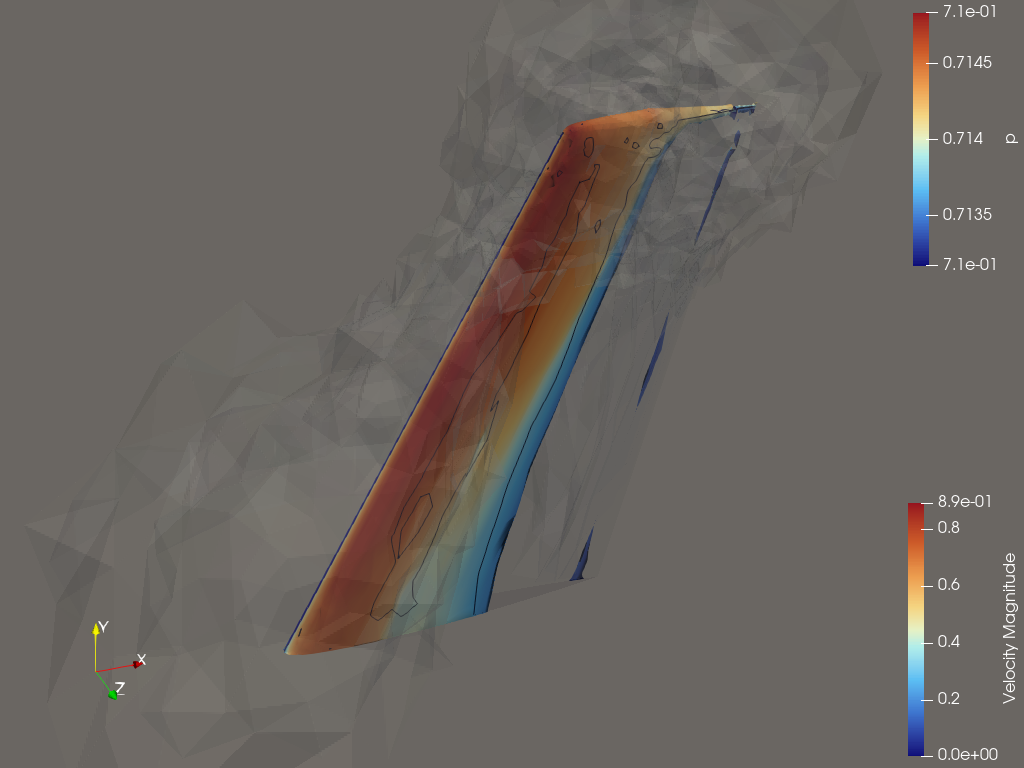
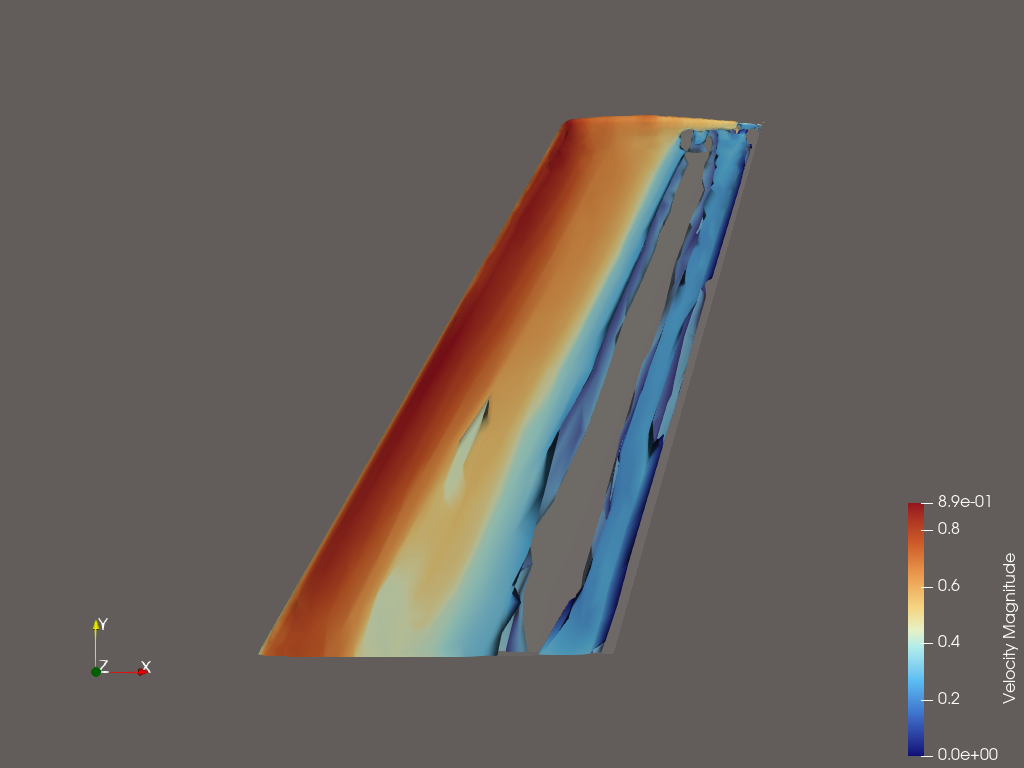
Update documentation images from test output
- Capture chart views (histogram, force distribution) in test screenshots
- Replace old manually-captured images with test-generated ones
- Add pressure_histogram.png, remove lift_distribution.png
- Update README to reference new histogram image

Images now automatically regenerated when tests run.

diff --git a/examples/cfd_assistant/test_all_workflows.py b/examples/cfd_assistant/test_all_workflows.py
@@ -143,11 +143,16 @@ for i, (name, query) in enumerate(tests, 1):
         "error": result['result'].get('error') if not success else None
     })
     
-    # Screenshot
-    simple.SetActiveView(view)
-    simple.Render(view)
+    # Screenshot - use chart view if workflow created one, otherwise 3D view
+    screenshot_view = view
+    if hasattr(extended_mcp, '_last_chart_view') and extended_mcp._last_chart_view is not None:
+        # Chart workflow - capture the chart view
+        screenshot_view = extended_mcp._last_chart_view
+        extended_mcp._last_chart_view = None  # Reset for next iteration
+    
+    simple.Render(screenshot_view)
     filename = f"output/workflow_test_{i:02d}_{name.replace(' ', '_').lower()}.png"
-    simple.SaveScreenshot(filename, view, ImageResolution=[1024, 768])
+    simple.SaveScreenshot(filename, screenshot_view, ImageResolution=[1024, 768])
     print_log("")
 
 # Summary

diff --git a/src/paraview_llm/extended_mcp.py b/src/paraview_llm/extended_mcp.py
@@ -1685,6 +1685,9 @@ class ExtendedParaViewMCP:
             display = simple.Show(hist, chart_view)
             simple.Render(chart_view)
             
+            # Store chart view for screenshot capture
+            self._last_chart_view = chart_view
+            
             # Get statistics
             if arr is not None:
                 if arr.ndim > 1 and arr.shape[1] > 1:
@@ -1925,6 +1928,9 @@ class ExtendedParaViewMCP:
             display.SeriesLineThickness = ['Accumulated_Force', '2', 'Sectional_Force', '2']
             
             simple.Render(chart_view)
+            
+            # Store chart view for screenshot capture
+            self._last_chart_view = chart_view
             
             # Cleanup
             simple.Delete(normals_filter)

diff --git a/README.md b/README.md
@@ -178,8 +178,8 @@ pvpython --venv .venv headless.py         # Real LLM mode
 ### Accumulated Drag Distribution
 ![Drag Distribution](docs/images/drag_distribution.png)
 
-### Spanwise Lift Distribution  
-![Lift Distribution](docs/images/lift_distribution.png)
+### Pressure Histogram
+![Pressure Histogram](docs/images/pressure_histogram.png)
 
 ## Environment Variables
 
